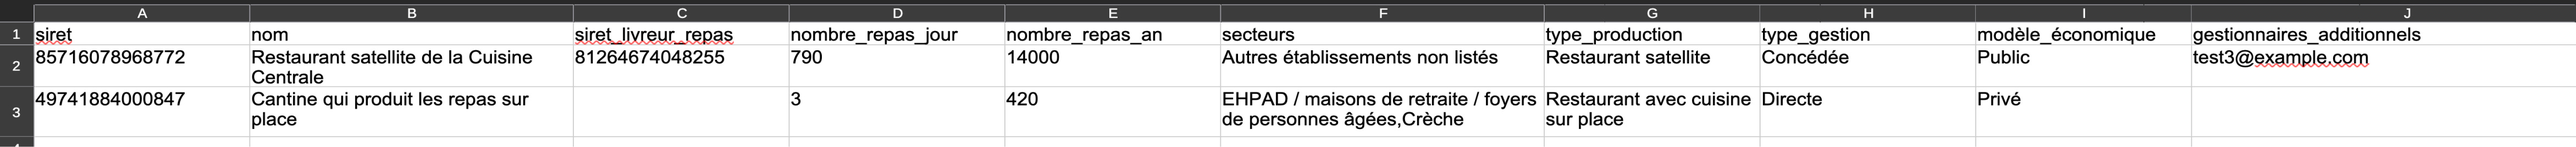
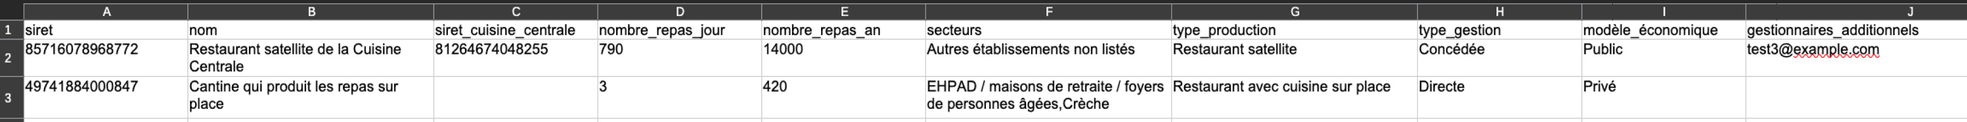
Mise à jour des fichiers d'exemples

diff --git a/2024-frontend/src/views/GestionnaireImportCantines.vue b/2024-frontend/src/views/GestionnaireImportCantines.vue
@@ -22,9 +22,9 @@ const exampleFile = {
   size: "496 octets",
 }
 const filePreviews = {
-  success: "importer_des_cantines_exemple_fichier_accepte.jpg?v=2",
+  success: "importer_des_cantines_exemple_fichier_accepte.jpg?v=3",
   altSuccess: "Exemple de fichier accepté pour importer des cantines, qui contient le bon nom de colonnes et les bonnes valeurs",
-  error: "importer_des_cantines_exemple_fichier_rejete.jpg?v=2",
+  error: "importer_des_cantines_exemple_fichier_rejete.jpg?v=3",
   altError: "Exemple de fichier rejeté pour importer des cantines, qui contient des erreurs dans les colonnes ou les valeurs",
 }
 const links = [
